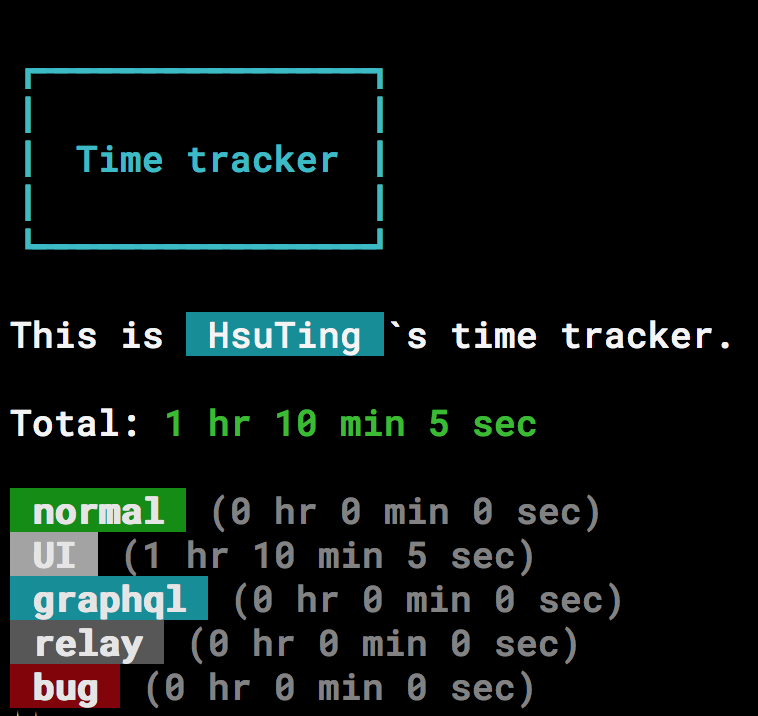
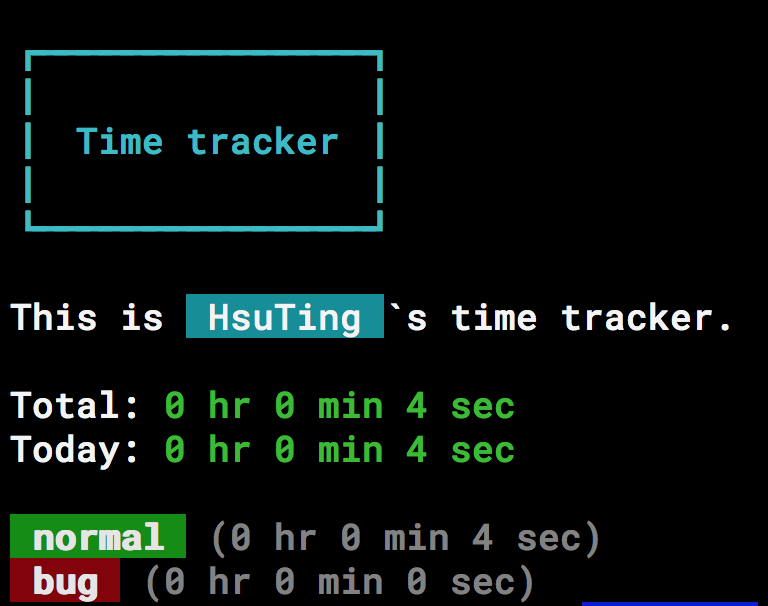
add count today

diff --git a/src/countTime.js b/src/countTime.js
@@ -16,19 +16,26 @@ const outputTime = time => {
 
 export default () => {
   const tagsTotal = {...tags};
+  const today = moment();
+  let todayTotal = 0;
 
   Object.keys(tags).forEach(tag => {
     tagsTotal[tag] = 0;
   });
 
   const total = Store.time.reduce((nowTotal, {tag, startTime, endTime}) => {
-    const count = moment(endTime).format('x') - moment(startTime).format('x');
+    const start = moment(startTime);
+    const count = moment(endTime).format('x') - start.format('x');
+
+    if(start.format('YYYY-MM-DD') === today.format('YYYY-MM-DD'))
+      todayTotal = todayTotal + count;
 
     tagsTotal[tag] = tagsTotal[tag] + count;
     return nowTotal + count;
   }, 0);
 
   console.log(`Total: ${chalk.green(outputTime(total))}`);
+  console.log(`Today: ${chalk.green(outputTime(todayTotal))}`);
   console.log();
 
   Object.keys(tags).forEach(tag => {
